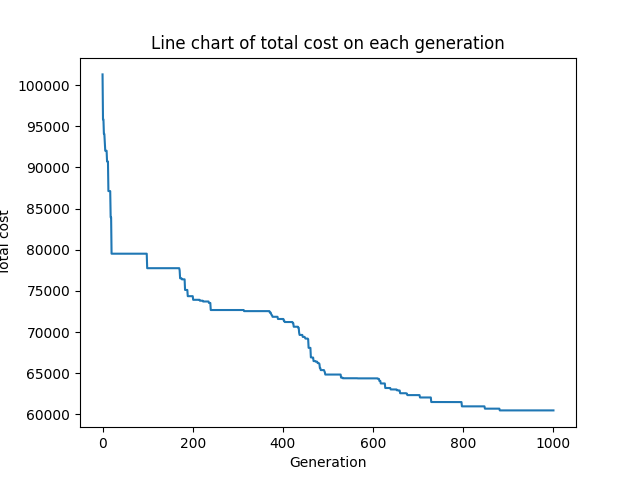
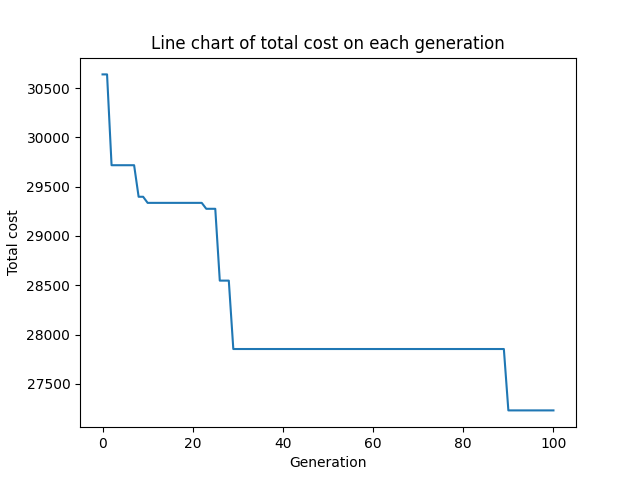
update GA VRPTW

diff --git a/GA_VRPTW.py b/GA_VRPTW.py
@@ -35,17 +35,14 @@ for line in lines[1:end_point_data]:  # Skip the header line
     cord_data.append(list_cord)
     customers[cust_no] = (cust_no,xcoord, ycoord, demand, ready_time, due_date, service_time)
 
-
 # num_vehicles = 10
 vehicle_capacity = 200
 
-population_size = 100
-generations = 1000
+population_size = 150
+generations = 100
 mutation_rate = 0.01
 pcv = 0.8
 
-total_wait = 0
-total_punish = 0
 
 fitness_list = []
 
@@ -66,51 +63,52 @@ def split_route(route):
     total_demand = 0
     demand_groups = []
     current_group = []
-
+    service_time = 0
+    cus_before = 0
     for i in route:
-        if total_demand + customers[i][3] <= vehicle_capacity:
+        if service_time == 0:
+            service_time = random.randint(customers[i][4],customers[i][5])
+        if service_time != 0:
+            service_time = service_time + customers[cus_before][6] + calculate_distance(customers[i],customers[cus_before])
+        if total_demand + customers[i][3] <= vehicle_capacity and (service_time >= (customers[i][4] - 500) and service_time <= (customers[i][5] + 500)):
             current_group.append(i)
             total_demand += customers[i][3]
         else:
             demand_groups.append(current_group)
             current_group = [i]
             total_demand = customers[i][3]
-
-    if current_group:
-        demand_groups.append(current_group)
+            service_time = 0
+        cus_before = i
+    demand_groups.append(current_group)
     return demand_groups
 
-def calculate_wait_punish(solution):
-    total = 0
-    for route in solution:
-        wait_punish = 0
-        service_time = 0
-        for cus in route:   
-            if service_time != 0:
-                service_time = service_time + customers[cus_before][6] + calculate_distance(customers[cus],customers[cus_before])
-            elif service_time == 0 :
-                service_time = random.randint(customers[cus][4],customers[cus][5])
-            # if service_time < customers[cus][4]:
-                # wait_punish += (customers[cus][4] - service_time)
-            if service_time > customers[cus][5]:
-                wait_punish += (service_time - customers[cus][5])
-            cus_before = cus
-        total += wait_punish
-    return total
 # Calculate the total cost of a solution
 def solution_cost(solution):
     fn_cost = 0
+    wait = 0
+    punish = 0
     for route in solution:
         total_cost = 0
         current_location = 0
         end_point = 0
+        service_time = 0
         for cust in route:
+            if service_time != 0:
+                service_time = service_time + customers[cus_before][6] + calculate_distance(customers[cust],customers[cus_before])
+            if service_time == 0 :
+                service_time = random.randint(customers[cust][4],customers[cust][5])
+            if service_time < customers[cust][4]:
+                wait += (customers[cust][4] - service_time)
+            if service_time > customers[cust][5]:
+                punish += (service_time - customers[cust][5])
             total_cost += calculate_distance(customers[current_location],customers[cust])
             current_location = cust
+            cus_before = cust
         total_cost += calculate_distance(customers[current_location], customers[end_point])
         fn_cost+=total_cost
-    fn_cost += calculate_wait_punish(solution)
-    return fn_cost
+    raw_cost = fn_cost
+    fn_cost = fn_cost + wait + punish 
+    return {'total_cost' : fn_cost, 'wait' : wait, 'punish' : punish, 'cost': raw_cost}
 
 
 # Create an initial random population
@@ -136,26 +134,21 @@ def generate_population(capacity,set_customer,population_size):
                 route_list.extend(list_filtered_route)
                 break
             for customer_id, customer_values in lst_filtered_cust.items():
-                # if service_time != 0:
-                #     service_time = service_time + cus_before[6] + calculate_distance(customer_values,cus_before)
-                # if service_time == 0 :
-                #     service_time = random.randint(customer_values[4],customer_values[5])
-                if customer_values[3] <= capacity_value:
-                    # if service_time < customer_values[4]:
-                    #     wait += (customer_values[4] - service_time)
-                    # if service_time > customer_values[5]:
-                    #     punish += (service_time - customer_values[5])
+                if service_time != 0:
+                    service_time = service_time + cus_before[6] + calculate_distance(customer_values,cus_before)
+                if service_time == 0 :
+                    service_time = random.randint(customer_values[4],customer_values[5])
+                if customer_values[3] <= capacity_value and (service_time >= (customer_values[4] - 500) and service_time <= (customer_values[5] + 500)):
                     filtered_customers.append(customer_id)
                     capacity_value -= customer_values[3]
-                # cus_before = customer_values
+                cus_before = customer_values
             if len(filtered_customers) == 0 or len(filtered_customers) == 1:
                 continue
             list_filtered_route.append(filtered_customers)
         flattened_list = []
         [flattened_list.extend(sublist) for sublist in route_list]
-        # print(wait,punish)
         total_value = solution_cost(split_route(flattened_list))
-        flattened_list.append(total_value)
+        flattened_list.append(total_value['total_cost'])
         population.append(flattened_list)
     return population
 
@@ -174,7 +167,7 @@ def crossover(parentA, parentB):
         child[positions[1]:] = p2genes[positions[0]:]
         child = mutate(child)
         cost = solution_cost(split_route(child))
-        child.append(cost)
+        child.append(cost['total_cost'])
         childs.append(child)
     return childs
     
@@ -200,7 +193,6 @@ def generate_newgeneration(parent_generation,remain_ratio):
             elite_index = parent_generation.index(elite_child)
             del parent_generation[elite_index]
             new_generation.append(elite_child)
-    count_pvc = 0
     list_parent = sorted(parent_generation, key = lambda x: x[-1])
     cut = int((len(parent_generation))/2)
     list_parent = list_parent[:cut]
@@ -216,7 +208,6 @@ def generate_newgeneration(parent_generation,remain_ratio):
         if random.random() <= pcv:
             new_routes = crossover(route1,route2)
         new_generation.extend(new_routes)
-        count_pvc += 1 
     return new_generation 
 
         
@@ -251,6 +242,7 @@ def run_program():
     total_cost = best_solution[-1]
     best_solution = best_solution[:-1]
     result = split_route(best_solution)
+    fn_route_cost = solution_cost(result)
     print(best_solution)
     print("----------------------------------------------------------------")
     for i in range(0, len(result)):
@@ -258,13 +250,17 @@ def run_program():
         cap = caculate_capacity(result[i])
         print(f"capacity of route {i + 1}: {cap}")
         total_demand += cap
-        print(f"Cost for route {i + 1}:", solution_cost([result[i]]))
+        route_cost = solution_cost([result[i]])
+        print(f"Cost for route {i + 1}:", route_cost['total_cost'])
+        print(f"wait for route {i + 1}:", route_cost['wait'])
+        print(f"punish for route {i + 1}:", route_cost['punish'])
         print("----------------------------------------------------------------")
     print(f"Total cost: {total_cost}")
+    print(f"Total wait: {fn_route_cost['wait']}")
+    print(f"Total punish: {fn_route_cost['punish']}")
     ratio = round((1 - ((total_cost)/fitness_list[0])) * 100,2)
     print(f"population in generations {generations} is {ratio}% better than the origin one")
     print(f"total_demand {total_demand} ")
-    print("total wait: ", calculate_wait_punish(result))
     plt.plot(fitness_list)
     # Add labels and a title
     plt.xlabel("Generation")
